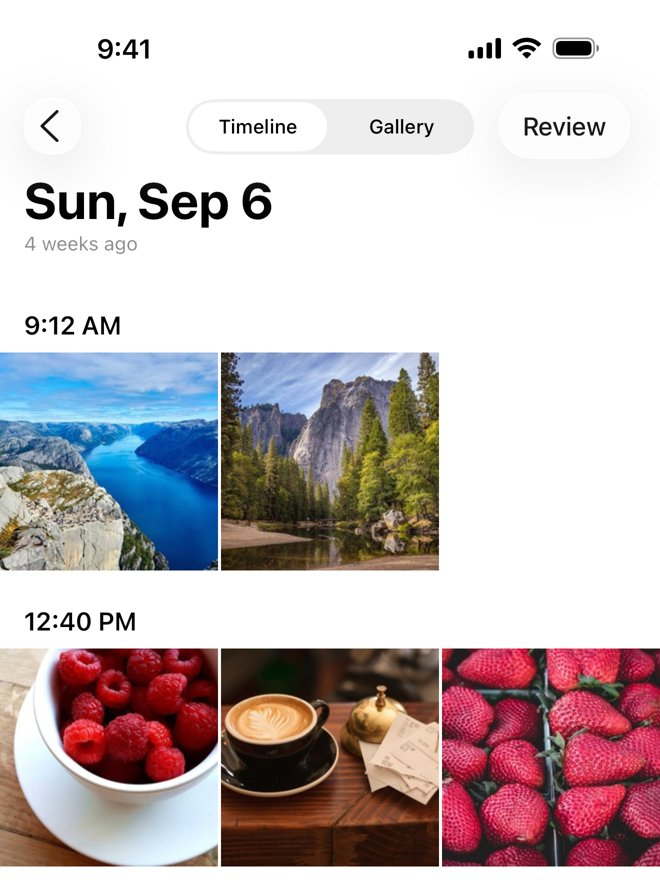
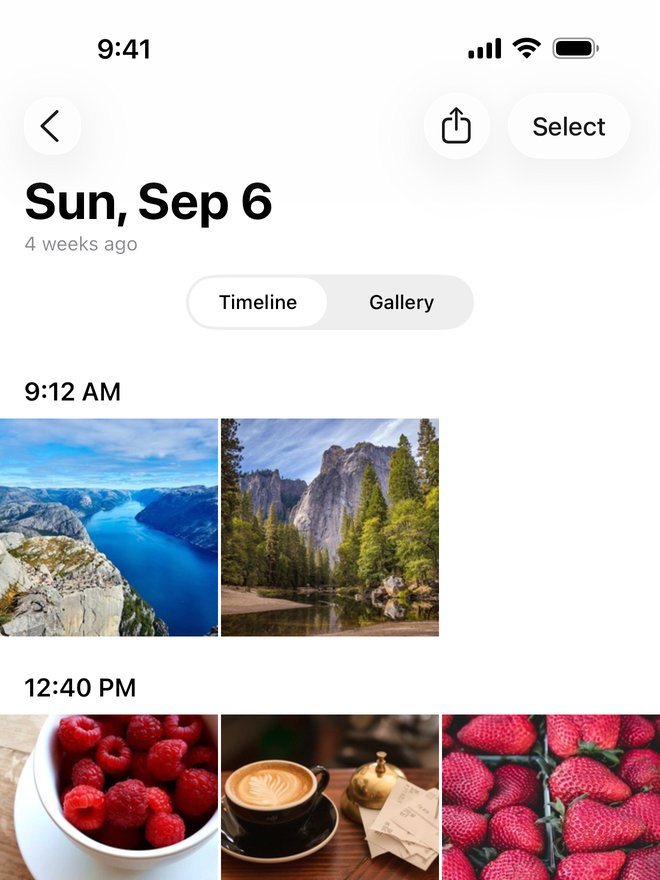
Landing: App Store and Google Play buttons, current screenshots, search basics (canonical, app details, sitemap, robots)

diff --git a/index.html b/index.html
@@ -3,11 +3,33 @@
 <head>
 <meta charset="utf-8">
 <meta name="viewport" content="width=device-width, initial-scale=1">
-<title>PhotoCal: Photo Calendar</title>
-<meta name="description" content="A calendar for the photos already on your phone. Look back by date, keep the best, clear the rest, share a day. Photos stay on your device.">
+<title>PhotoCal: Photo Calendar for iPhone and Android</title>
+<meta name="description" content="A calendar for the photos already on your phone. Look back by date, keep the best, clear the rest, share a day. Photos stay on your device. Free on iPhone and Android.">
+<link rel="canonical" href="https://photocalapp.com/">
+<meta name="apple-itunes-app" content="app-id=6818942546">
+<meta property="og:type" content="website">
+<meta property="og:url" content="https://photocalapp.com/">
 <meta property="og:title" content="PhotoCal: Photo Calendar">
 <meta property="og:description" content="A calendar for the photos already on your phone.">
 <meta property="og:image" content="https://photocalapp.com/img/01_calendar.jpg">
+<meta name="twitter:card" content="summary_large_image">
+<script type="application/ld+json">
+{
+  "@context": "https://schema.org",
+  "@type": "MobileApplication",
+  "name": "PhotoCal: Photo Calendar",
+  "url": "https://photocalapp.com/",
+  "image": "https://photocalapp.com/img/icon-180.png",
+  "description": "A calendar for the photos already on your phone. Look back by date, keep the best, clear the rest, share a day.",
+  "applicationCategory": "PhotographyApplication",
+  "operatingSystem": "iOS, Android",
+  "offers": { "@type": "Offer", "price": "0", "priceCurrency": "USD" },
+  "sameAs": [
+    "https://apps.apple.com/app/id6818942546",
+    "https://play.google.com/store/apps/details?id=com.photocalapp.photocal"
+  ]
+}
+</script>
 <link rel="icon" href="/img/icon-64.png">
 <link rel="apple-touch-icon" href="/img/icon-180.png">
 <link rel="stylesheet" href="/style.css">
@@ -18,7 +40,8 @@
   header .icon { width: 72px; height: 72px; border-radius: 16px; margin-bottom: 24px; box-shadow: 0 1px 3px color-mix(in srgb, CanvasText 18%, transparent); }
   header h1 { font-size: clamp(44px, 7vw, 72px); letter-spacing: -0.03em; line-height: 1; margin: 0; }
   header p { font-size: clamp(19px, 2.4vw, 23px); color: GrayText; max-width: 34em; margin: 20px 0 0; }
-  .soon { display: inline-block; margin-top: 28px; font-size: 15px; color: GrayText; border: 1px solid color-mix(in srgb, CanvasText 15%, transparent); border-radius: 999px; padding: 8px 16px; }
+  .stores { display: flex; flex-wrap: wrap; gap: 12px; margin-top: 28px; }
+  .stores img { height: 48px; width: auto; display: block; }
   header .price { font-size: 15px; color: GrayText; margin: 16px 0 0; max-width: none; }
   .shots { display: grid; grid-template-columns: repeat(3, 1fr); gap: 20px; align-items: start; }
   .shots img { width: 100%; height: auto; border-radius: 28px; border: 1px solid color-mix(in srgb, CanvasText 10%, transparent); }
@@ -43,14 +66,17 @@
     <img class="icon" src="/img/icon-180.png" alt="PhotoCal icon">
     <h1>PhotoCal</h1>
     <p>A calendar for the photos already on your phone. Open a month, see each day's photo, tap a day to see them all.</p>
-    <span class="soon">Coming to the App Store and Google Play</span>
+    <div class="stores">
+      <a href="https://apps.apple.com/app/id6818942546"><img src="/img/app-store.svg" alt="Download on the App Store"></a>
+      <a href="https://play.google.com/store/apps/details?id=com.photocalapp.photocal&amp;referrer=utm_source%3Dphotocalapp.com"><img src="/img/google-play.png" alt="Get it on Google Play"></a>
+    </div>
     <p class="price">Recent photos (the last 30 days) are always free. Older days: one-time unlock, no subscription.</p>
   </header>
 
   <section class="shots" aria-label="Screenshots">
     <img src="/img/01_calendar.jpg" alt="A month calendar where each date shows that day's photo">
     <img src="/img/02_timeline.jpg" alt="One day's photos grouped by the time they were taken" loading="lazy">
-    <img src="/img/05_same_day.jpg" alt="The same date in earlier years" loading="lazy">
+    <img src="/img/05_same_day.jpg" alt="A day's photos with that day's calendar events" loading="lazy">
   </section>
 
   <section class="points">
